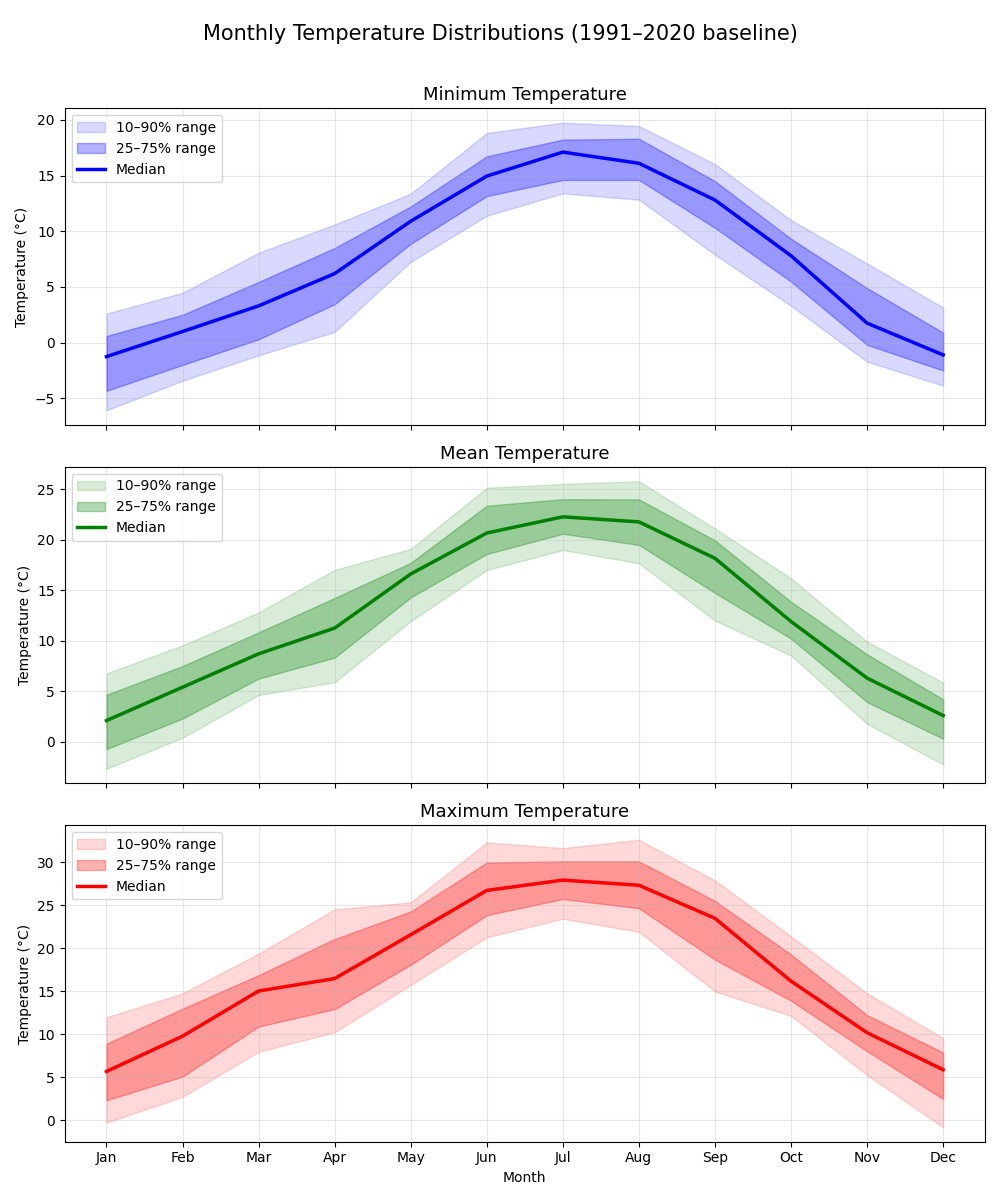
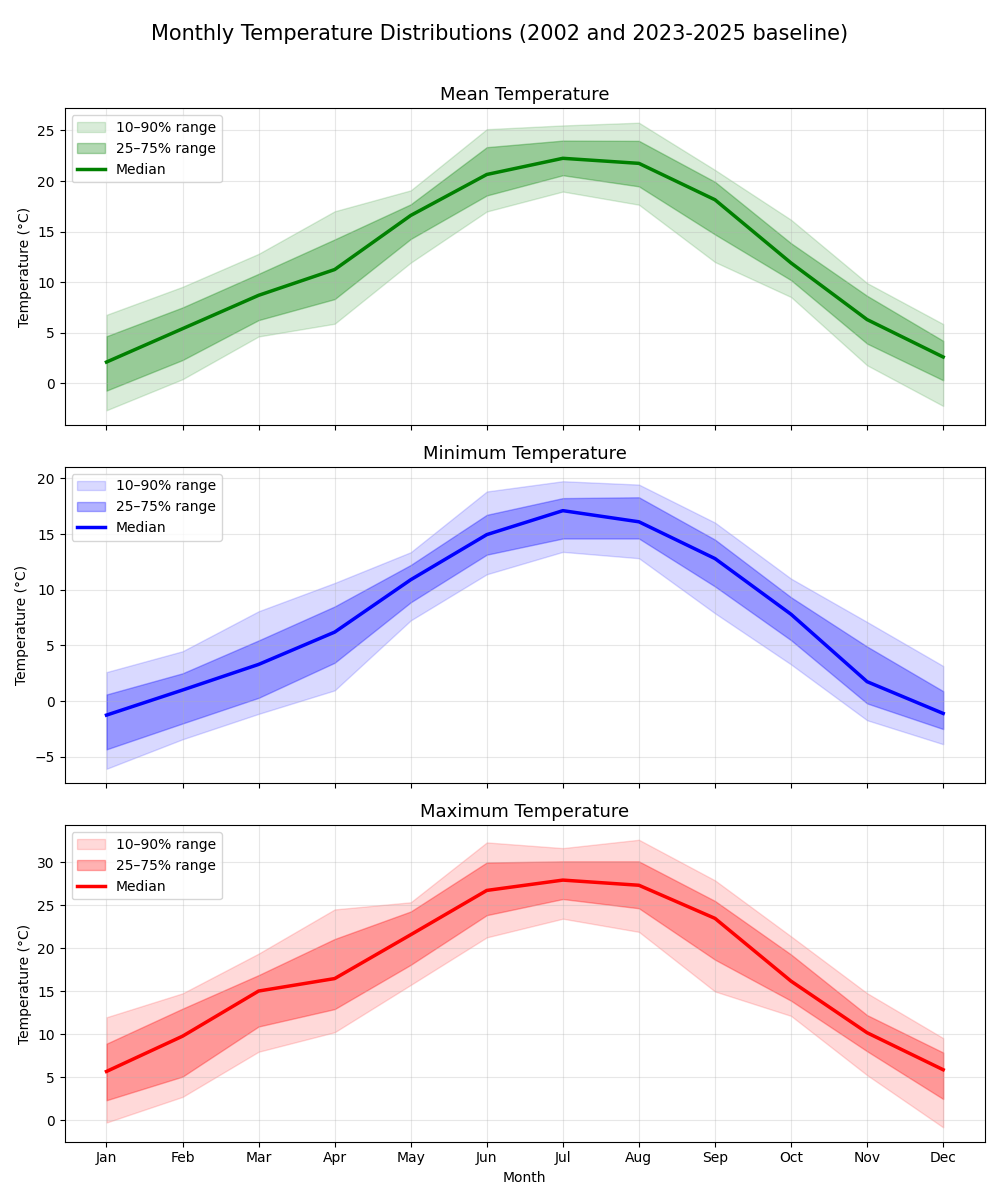
Prettied up graph two

diff --git a/main.py b/main.py
@@ -23,10 +23,6 @@ def get_climate_data(csv_loc: str) -> pd.DataFrame:
     return climate_data
 
 
-def restrict_dataframe_dates(dataframe, range_start, range_end):
-    return dataframe[range_start:range_end]
-
-
 def get_monthly_aggregates(dataframe: pd.DataFrame) -> pd.DataFrame:
     clim = dataframe.groupby(dataframe.index.month).mean()
     clim.index.name = "month"
@@ -67,7 +63,7 @@ def plot_hottest_years(monthly_anomalies: pd.DataFrame, hottest_years) -> None:
 
 def generate_graph_one(dataframe: pd.DataFrame, export_name="Anomalies from 1991 to 2020.png"):
     RANGE_START, RANGE_END = "1991-01-01", "2020-12-31"
-    df_date_restricted = restrict_dataframe_dates(dataframe, RANGE_START, RANGE_END)
+    df_date_restricted = dataframe[RANGE_START:RANGE_END]
 
     all_monthly_anomalies = get_monthly_means(df_date_restricted) - get_monthly_aggregates(df_date_restricted)
     monthly_anomalies = all_monthly_anomalies["tl_mittel"]
@@ -88,45 +84,7 @@ def generate_graph_one(dataframe: pd.DataFrame, export_name="Anomalies from 1991
 
 
 
-CLIMATE_DATA_CSV_LOCATION = "Messstationen_Graz_Tagesdaten_v2_Datensatz_19220101_20251031.csv"
-df = get_climate_data(CLIMATE_DATA_CSV_LOCATION)
-
-generate_graph_one(df, "Anomalies from 1991 to 2020.png")
-
-
-# Phase two: medians
-
-df_custom_years = pd.concat([df["2002-01-01":"2002-12-31"], df["2023-01-01":]])
-
-
-# Group by month number (1–12)
-monthly_stats = df_custom_years.groupby(df_custom_years.index.month).agg({
-    "tl_mittel": ['median', lambda x: x.quantile(0.25), lambda x: x.quantile(0.75),
-                  lambda x: x.quantile(0.10), lambda x: x.quantile(0.90)],
-    "tlmin":    ['median', lambda x: x.quantile(0.25), lambda x: x.quantile(0.75),
-                  lambda x: x.quantile(0.10), lambda x: x.quantile(0.90)],
-    "tlmax":    ['median', lambda x: x.quantile(0.25), lambda x: x.quantile(0.75),
-                  lambda x: x.quantile(0.10), lambda x: x.quantile(0.90)]
-})
-
-# Clean up the column names
-monthly_stats.columns = pd.MultiIndex.from_product(
-    [['tl_mittel', 'tlmin', 'tlmax'],
-     ['median', 'p25', 'p75', 'p10', 'p90']]
-)
-monthly_stats.index.name = 'month'
-
-# Time to start displaying
-months = range(1, 13)
-month_labels = ["Jan","Feb","Mar","Apr","May","Jun","Jul","Aug","Sep","Oct","Nov","Dec"]
-
-# Create 3 subplots (min, mean, max)
-fig, axes = plt.subplots(3, 1, figsize=(10, 12), sharex=True)
-variables = ['tlmin', 'tl_mittel', 'tlmax']
-titles = ['Minimum Temperature', 'Mean Temperature', 'Maximum Temperature']
-colors = ['blue', 'green', 'red']  # blue, orange, red
-
-for ax, var, title, color in zip(axes, variables, titles, colors):
+def render_deciles_quartiles_median(monthly_stats: pd.DataFrame, months, ax, var, title, color) -> None:
     # Interdecile (10–90%)
     ax.fill_between(
         months,
@@ -155,16 +113,51 @@ for ax, var, title, color in zip(axes, variables, titles, colors):
     ax.grid(alpha=0.3)
     ax.legend(loc="upper left")
 
-# Shared x-axis
-axes[-1].set_xlabel("Month")
-axes[-1].set_xticks(months)
-axes[-1].set_xticklabels(month_labels)
+def generate_graph_two(dataframe: pd.DataFrame, birth_year: str, export_name="Monthly Temperature Distributions.png"):
+    RANGE_START = "2023-01-01"
+    df_after_2023 = dataframe[RANGE_START:]
+    df_birth_year = dataframe[f"{birth_year}-01-01":f"{birth_year}-12-31"]
+    df_date_restricted = pd.concat([df_after_2023, df_birth_year])
 
-plt.suptitle("Monthly Temperature Distributions (1991–2020 baseline)", fontsize=15)
-plt.tight_layout(rect=(0.0, 0.0, 1.0, 0.97))
-plt.savefig("Monthly Temperature Distributions.png")
+    DESIRED_STATISTICS = ['median', lambda x: x.quantile(0.25), lambda x: x.quantile(0.75),
+                      lambda x: x.quantile(0.10), lambda x: x.quantile(0.90)]
+    VARIABLES = ['tl_mittel', 'tlmin', 'tlmax']
+    DESIRED_STATISTIC_NAMES = ['median', 'p25', 'p75', 'p10', 'p90']
+    # Group by month number (1–12)
+    statistics_for_each_variable = {var: DESIRED_STATISTICS for var in VARIABLES}
+    monthly_stats = df_date_restricted.groupby(df_date_restricted.index.month).agg(statistics_for_each_variable)
+
+    # Clean up the column names
+    monthly_stats.columns = pd.MultiIndex.from_product([VARIABLES, DESIRED_STATISTIC_NAMES])
+    monthly_stats.index.name = 'month'
+
+    # Create 3 subplots (min, mean, max)
+    fig, axes = plt.subplots(3, 1, figsize=(10, 12), sharex=True)
+    TITLES = ['Mean Temperature', 'Minimum Temperature', 'Maximum Temperature']
+    COLORS = ['green', 'blue', 'red']
+
+    MONTHS = range(1, 13)
+    for ax, var, title, color in zip(axes, VARIABLES, TITLES, COLORS):
+        render_deciles_quartiles_median(monthly_stats, MONTHS, ax, var, title, color)
+
+    # Shared x-axis
+    axes[-1].set_xlabel("Month")
+    axes[-1].set_xticks(MONTHS)
+
+    MONTH_LABELS = ["Jan", "Feb", "Mar", "Apr", "May", "Jun", "Jul", "Aug", "Sep", "Oct", "Nov", "Dec"]
+    axes[-1].set_xticklabels(MONTH_LABELS)
+
+    plt.suptitle(f"Monthly Temperature Distributions ({birth_year} and 2023-2025 baseline)", fontsize=15)
+    plt.tight_layout(rect=(0.0, 0.0, 1.0, 0.97))
+    plt.savefig(export_name)
 
 
+CLIMATE_DATA_CSV_LOCATION = "Messstationen_Graz_Tagesdaten_v2_Datensatz_19220101_20251031.csv"
+df = get_climate_data(CLIMATE_DATA_CSV_LOCATION)
+
+generate_graph_one(df, "Anomalies from 1991 to 2020.png")
+
+generate_graph_two(df, "2002", "Monthly Temperature Distributions.png")
 
 
 # Phase 3: Hot and cold days
